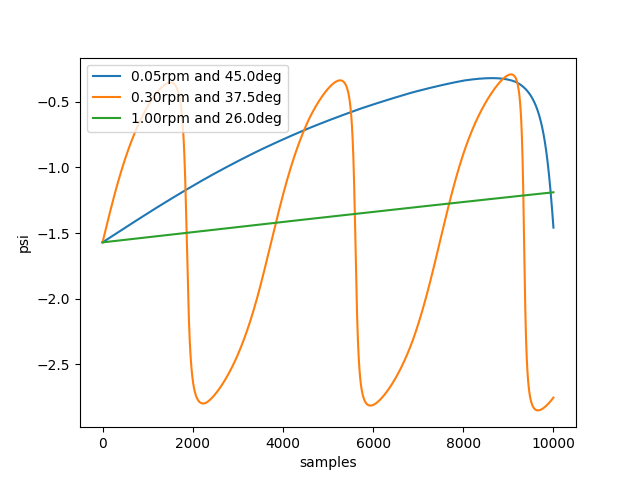
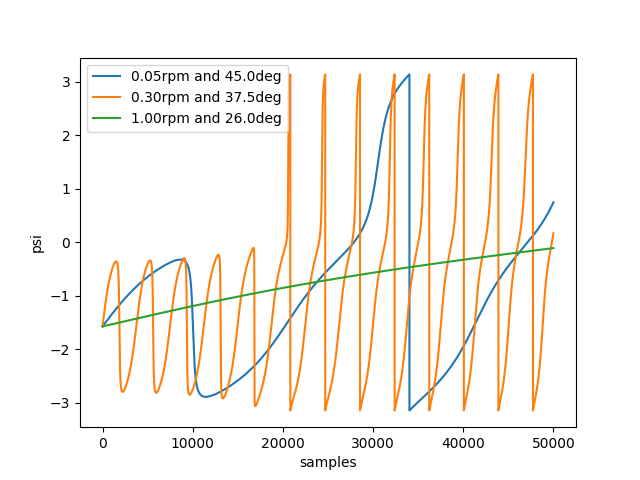
more samples

diff --git a/validation/check_pointings.py b/validation/check_pointings.py
@@ -46,7 +46,7 @@ psi_100_260 = pnt['PSI']
 
 ###
 
-nsamp = 10000
+nsamp = 50000
 
 plt.plot(theta_005_450[:nsamp], label='0.05rpm and 45.0deg')
 plt.plot(theta_030_375[:nsamp], label='0.30rpm and 37.5deg')
